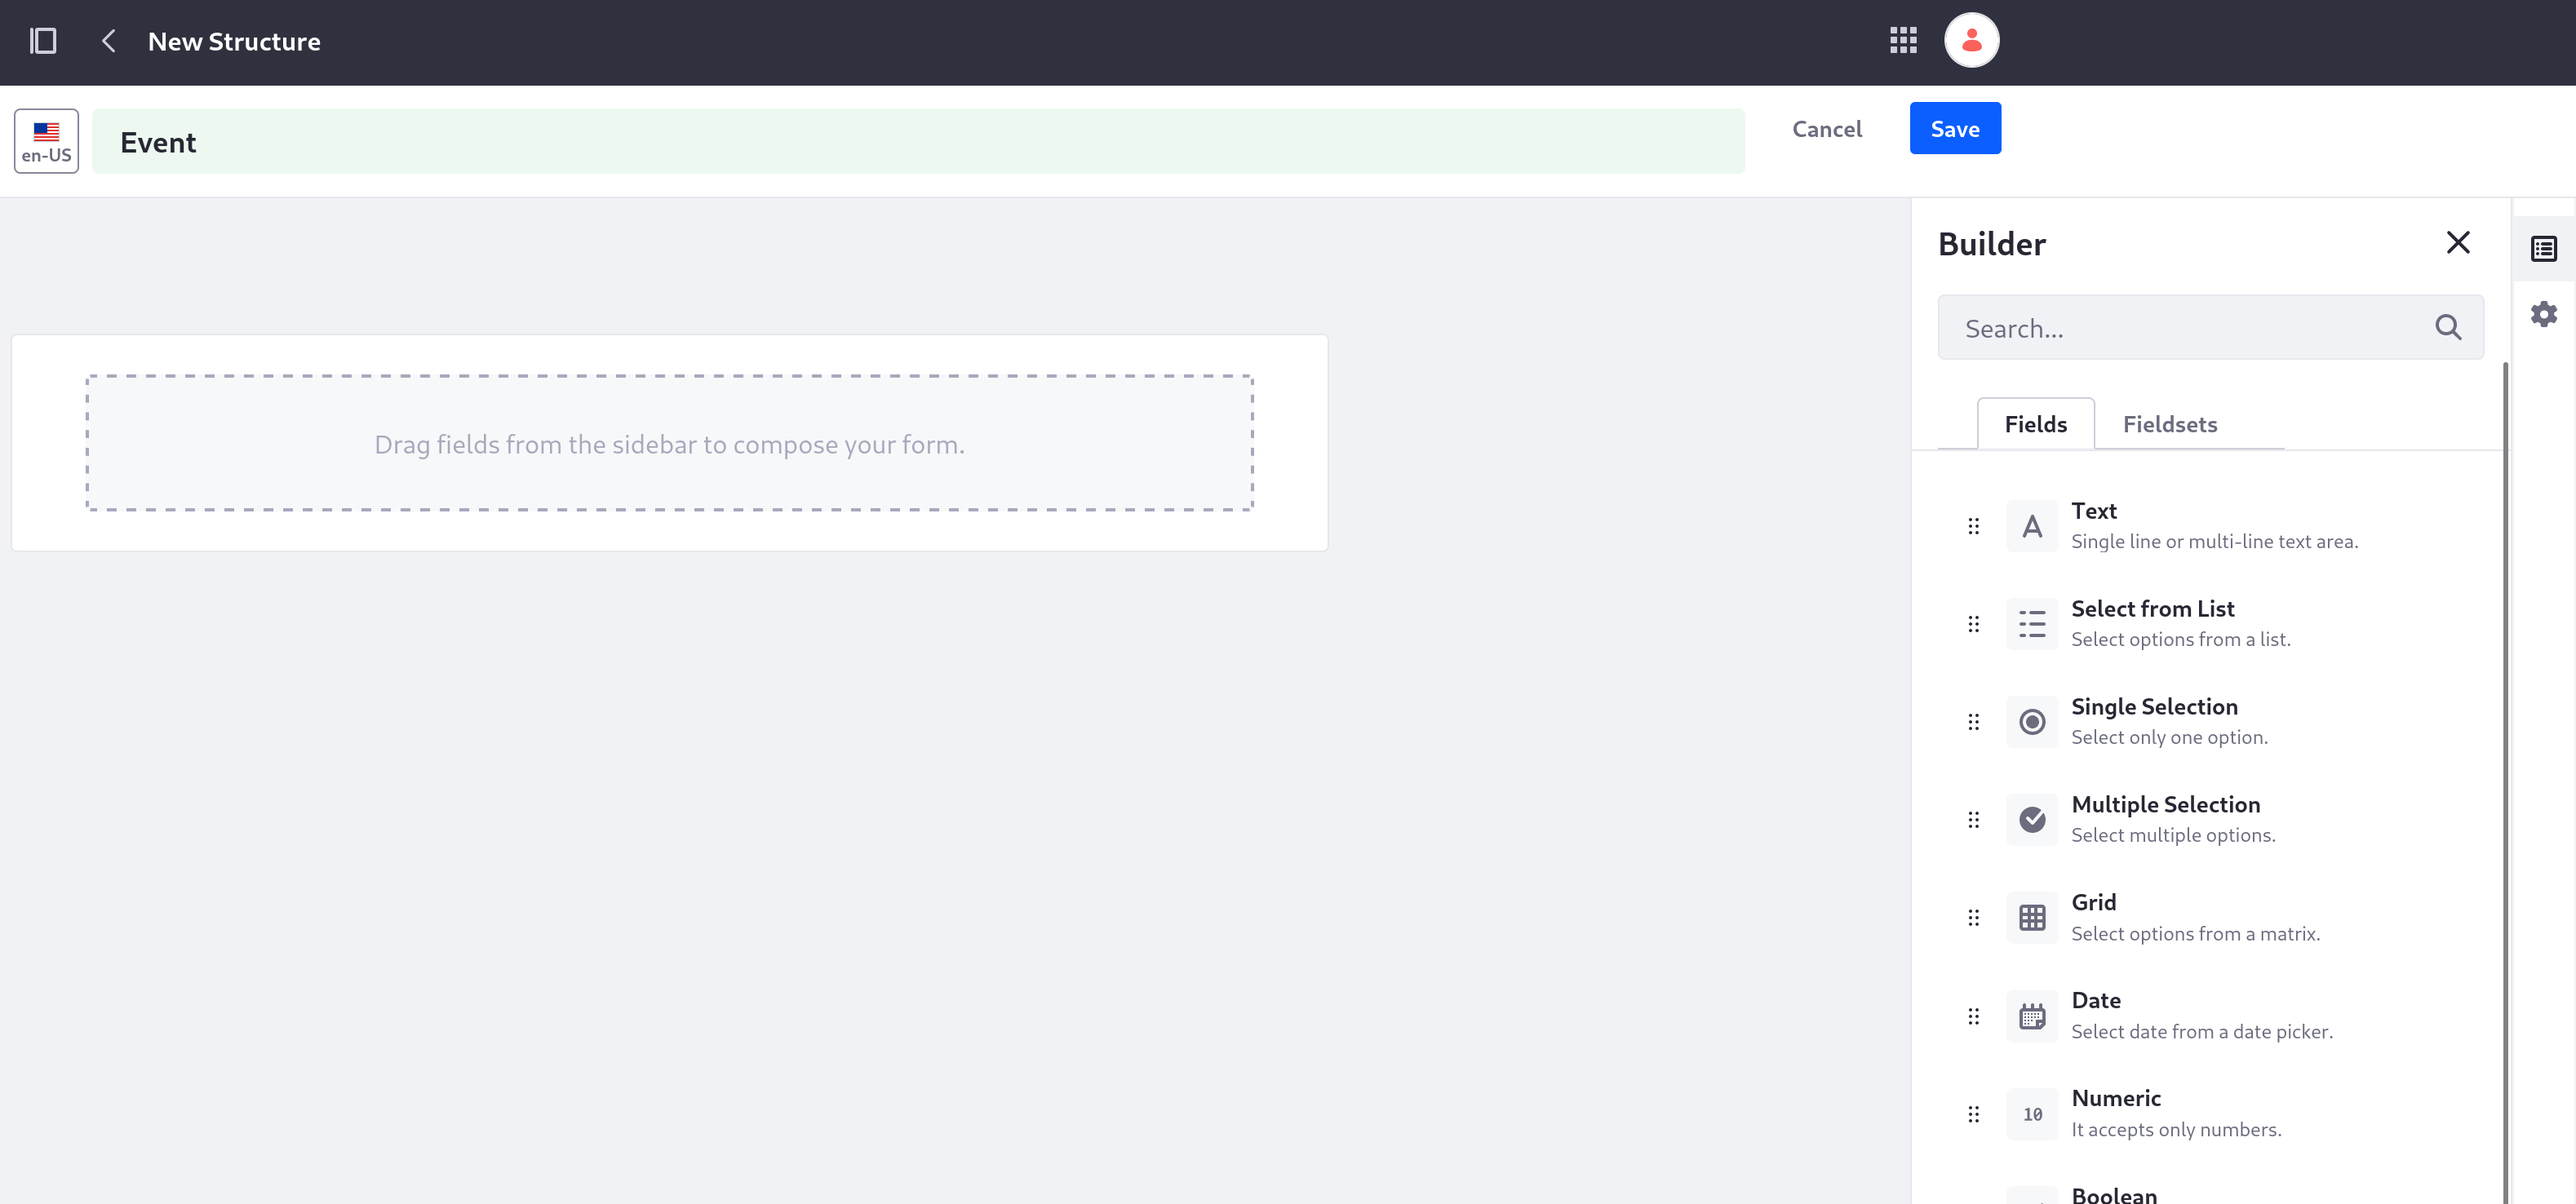
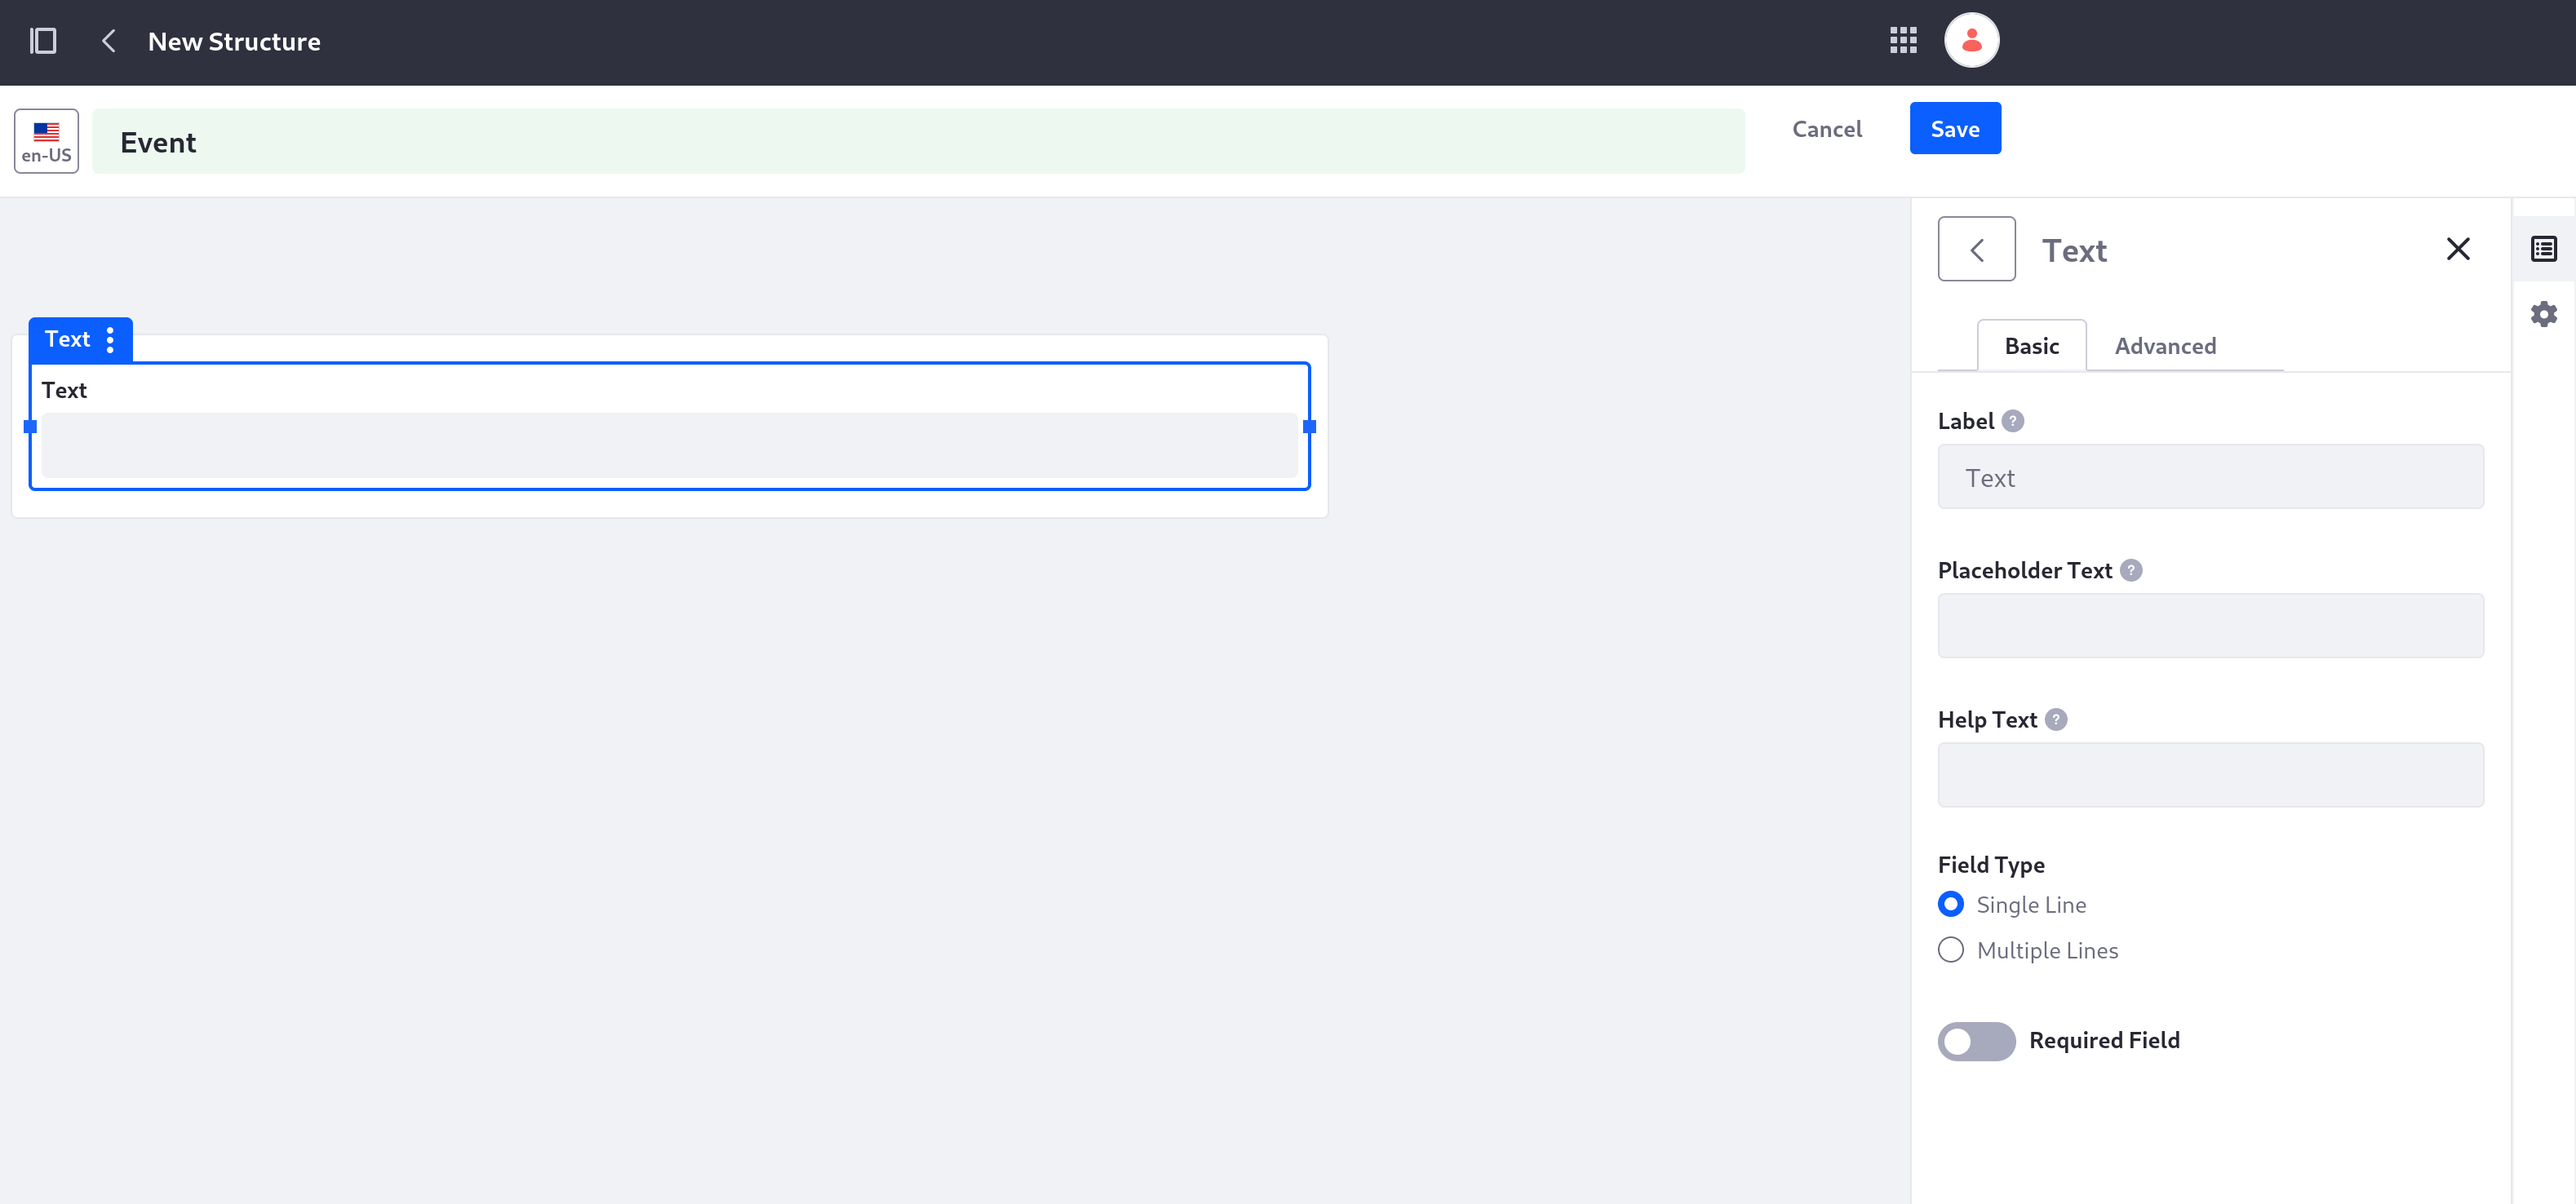
LRDOCS-12287 resolving comments

diff --git a/docs/courses/latest/en/web-site-manager/creating-content/adding-a-structure-for-events.md b/docs/courses/latest/en/web-site-manager/creating-content/adding-a-structure-for-events.md
@@ -19,7 +19,7 @@ First, Clarity needs a structure for content that describes a specific event or 
 
 1. Click into the title field at the top of the page and name the structure `Event`.
 
-   ![Name the new structure "Event".](./adding-a-structure-for-events/images/02.png)
+   ![Name the new structure "Event".](./adding-a-structure-for-events/images/01.png)
 
 1. Click *Properties* (![Properties icon](../../images/icon-cog3.png)) to access the structure's properties and enter this description: `Generic structure for internal and external announcements.`
 
@@ -33,7 +33,7 @@ Now you are ready to configure the structure with the necessary fields.
 
    The text field is added to the structure, and the menu on the right automatically changes to its configuration.
 
-   ![Adding a new field automatically shows its configuration in the menu on the right.](./adding-a-structure-for-events/images/03.png)
+   ![Adding a new field automatically shows its configuration in the menu on the right.](./adding-a-structure-for-events/images/02.png)
 
 1. Set these values in the text field's configuration:
 
@@ -47,7 +47,7 @@ Now you are ready to configure the structure with the necessary fields.
 
 1. Exit the text field's configuration and drag a *Rich Text* field onto the existing text field.
 
-   This adds both fields into a field group containing them.
+   This adds both fields into a fields group containing them.
 
 1. Set these values in the rich text field's configuration:
 
@@ -57,31 +57,17 @@ Now you are ready to configure the structure with the necessary fields.
 
    * Enable the *Required Field* toggle.
 
-1. Click the fields group containing the two text fields to access its configuration and enter `Content` into its Label field.
+1. Exit the rich text field's configuration and drag an *Image* field onto the existing fields group, under the rich text field.
 
-1. Exit the field group's configuration and drag an *Image* field into the structure, below the Content field group.
+   ![Place the Image field in the same fields group but under the Rich Text field.](./adding-a-structure-for-events/images/03.png)
 
-   Look for the blue bar indicating where you're placing the field and make sure it shows at the very bottom of the structure so it's placed outside of the field group.
-
-   ![Place the Image outside of the existing field group.](./adding-a-structure-for-events/images/04.png)
+   ```{note}
+   You can place fields groups inside fields groups. In this exercise, if you drop the image field onto the rich field (instead of under it), you'll create a fields group with the rich text and the image fields inside the existing group.
+   ```
 
 1. Enter `Banner Image` into the image field's Label in the configuration menu.
 
-1. Drag another Image field into the structure onto the existing image field so it creates another field group.
-
-   <!-- card image is not used in the template. should this be kept ? -- eric -->
-
-   <!-- Maybe it's used later? Check with Alec. If it's not used, no, we shouldn't have it. -Rich -->
-
-1. Enter `Card Image` into the second image field's Label in the configuration menu.
-
-1. Click the fields group containing the image fields and change these settings in its configuration:
-
-   * **Label**: Images
-
-   * Enable the *Collapsible* toggle.
-
-   ![The completed structure has a separate field group for text fields and images.](./adding-a-structure-for-events/images/05.png)
+1. Click the fields group containing the fields to access its configuration and enter `Content` into its Label field.
 
 1. Click *Save* at the top of the page.
 

diff --git a/docs/courses/latest/en/web-site-manager/creating-content/adding-a-template-to-display-faqs.md b/docs/courses/latest/en/web-site-manager/creating-content/adding-a-template-to-display-faqs.md
@@ -21,8 +21,6 @@ Here, you'll make use of a [FreeMarker list](https://freemarker.apache.org/docs/
 
    ![Select a structure when creating a template to associate them.](./adding-a-template-to-display-faqs/images/01.png)
 
-<!-- Eric, here's where you'd change the navigation if you want to do it differently for the two templates. -Rich -->
-
 1. Still in the Properties menu, enter this into the *Description* field: `A simple template to list each question and answer.`
 
 1. At the top of the page, enter `Simple FAQ List` as the title.
@@ -30,10 +28,6 @@ Here, you'll make use of a [FreeMarker list](https://freemarker.apache.org/docs/
 ## Configure the Template's Fields
 
 Next, format the list of FAQ articles.
-
-<!-- I saw references to using Enter in order to tell the user to skip lines to add the new lines of code. I am not sure if this is needed as there are pictures showing how the code will look like in the end. Initially, I had eliminated them, but I brought them back for now. - Eric -->
-
-<!-- I think that's just to format the code. It's good practice. -Rich -->
 
 1. Click *Elements* (![Elements icon](../../images/icon-list-ul.png)) to reopen the Elements menu.
 
@@ -52,9 +46,6 @@ Next, format the list of FAQ articles.
 1. Press Enter twice to add two new lines and add an HTML tag for a new line (`<br>`) to separate the title from the list of FAQs.
 
 1. Press Enter twice to add two new lines and, from the list of fields in the Elements menu, click *FAQ*.
-
-   <!-- this question group was called sth else when created -->
-   <!-- I altered the code here to reflect the name used in the field reference (FAQ). --Eric -->
 
    Because the FAQ group is a repeatable field, this adds a FreeMarker list that iterates over each instance in the displayed content.
 
@@ -88,8 +79,6 @@ Next, format the list of FAQ articles.
 
 Now you have a template that displays each question and answer wherever you display a FAQs article, and you can display both of your new types of web content properly on your site.
 
-<!-- I'm not sure if the screenshots were needed, but I thought it would be nice if the user could see what the code looked like once it was rendered on screen. - Eric -->
-
 ![The Simple FAQ List template applied to a FAQ web content article.](./adding-a-template-to-display-faqs/images/04.png)
 
 Next, import a second template for the FAQs structure.
@@ -105,8 +94,6 @@ While you're still on the Templates page, make sure the top of the page reads "T
    ```
 
 1. Download and unzip the template resource:
-
-<!-- This link is not working yet. - Eric -->
 
    ```bash
    curl https://resources.learn.liferay.com/courses/latest/en/liferay-c8m2.zip -O

diff --git a/docs/courses/latest/en/web-site-manager/creating-content.md b/docs/courses/latest/en/web-site-manager/creating-content.md
@@ -21,15 +21,15 @@ Creating content is an integral part of running a website:
 
 These examples provide a glimpse into the kind of content that could be on a site. Different organizations engage in additional content initiatives tailored to their specific needs and goals.
 
-Fortunately, Liferay provides tools to make the content creation process easier and faster. When you have a lot of content to manage, you can create _web content structures_ to enforce a format for your content, so content content is created consistently and with a uniform format.
+Fortunately, Liferay provides tools to make the content creation process easier and faster. When you have a lot of content to manage, you can create *web content structures* to enforce a format for your content, so it is created consistently and with a uniform format.
 
 ![Create a content structure to enforce a format for your content articles.](./creating-content/images/01.png)
 
-Structures are rendered using a _web content template_ associated with the structure, so content is presented exactly the way you want it.
+Structures are rendered using a *web content template* associated with the structure, so content is presented exactly the way you want it.
 
 ![With a template, define how to render the structure you created on a page.](./creating-content/images/02.png)
 
-Content creators create _web content articles_ using the structure, and when they're published, they're displayed using the template. These elements help you maintain consistency throughout your content.
+Content creators create *web content articles* using the structure, and when they're published, they're displayed using the template. These elements help maintain consistency throughout your content.
 
 ![A web content article presents a list of frequently asked questions and their answers with a consistent format.](./creating-content/images/03.png)
 

diff --git a/docs/courses/latest/en/web-site-manager/creating-content/adding-the-sites-first-web-content.md b/docs/courses/latest/en/web-site-manager/creating-content/adding-the-sites-first-web-content.md
@@ -93,8 +93,6 @@ You're brought back to the Web Content page, and now you have an Event article. 
 
 Now you have a new article for each of the web content structures you've added.
 
-<!-- TODO: Add one more section to import more events and content -->
-
 ## Import More Articles
 
 You can populate your site with more content by importing it.
@@ -115,8 +113,6 @@ You can populate your site with more content by importing it.
 1. Click *Select File*, select the `web-content-articles.lar` file you downloaded and unzipped, and click *Continue*.
 
 1. Use the default settings and click *Import*.
-
-   <!-- there is no exporting/importing web content article. This one has a similar setting. - Eric -->
 
    To learn more about the import process and its options see [Exporting/Importing Widget Data](https://learn.liferay.com/w/dxp/site-building/creating-pages/page-fragments-and-widgets/using-widgets/configuring-widgets/exporting-importing-widget-data#importing-widget-data) that has a similar import process.
 

diff --git a/docs/courses/latest/en/web-site-manager/creating-content/adding-a-template-to-display-an-event.md b/docs/courses/latest/en/web-site-manager/creating-content/adding-a-template-to-display-an-event.md
@@ -15,10 +15,6 @@ Here, you'll use HTML and [FreeMarker tags](https://freemarker.apache.org/docs/d
 
 1. Click the *Structures* tab to get to the structures you created previously.
 
-   <!-- I guess we can also add the template straight from the templates tab and select a structure in basic information. Is it necessary to document the alternative way to do the same here in courses? -- Eric -->
-
-   <!-- Feel free to change these instructions to whatever makes pedagogical sense to you. Maybe to show both, you do it this way here, and then for the next one, you can do it from the templates tab. -Rich -->
-
 1. Select *Manage Templates* in the Event structure's Actions menu (![Actions icon](../../images/icon-actions.png)).
 
    ![Click Manage Templates to specifically add templates for this web content structure.](./adding-a-template-to-display-an-event/images/01.png)
